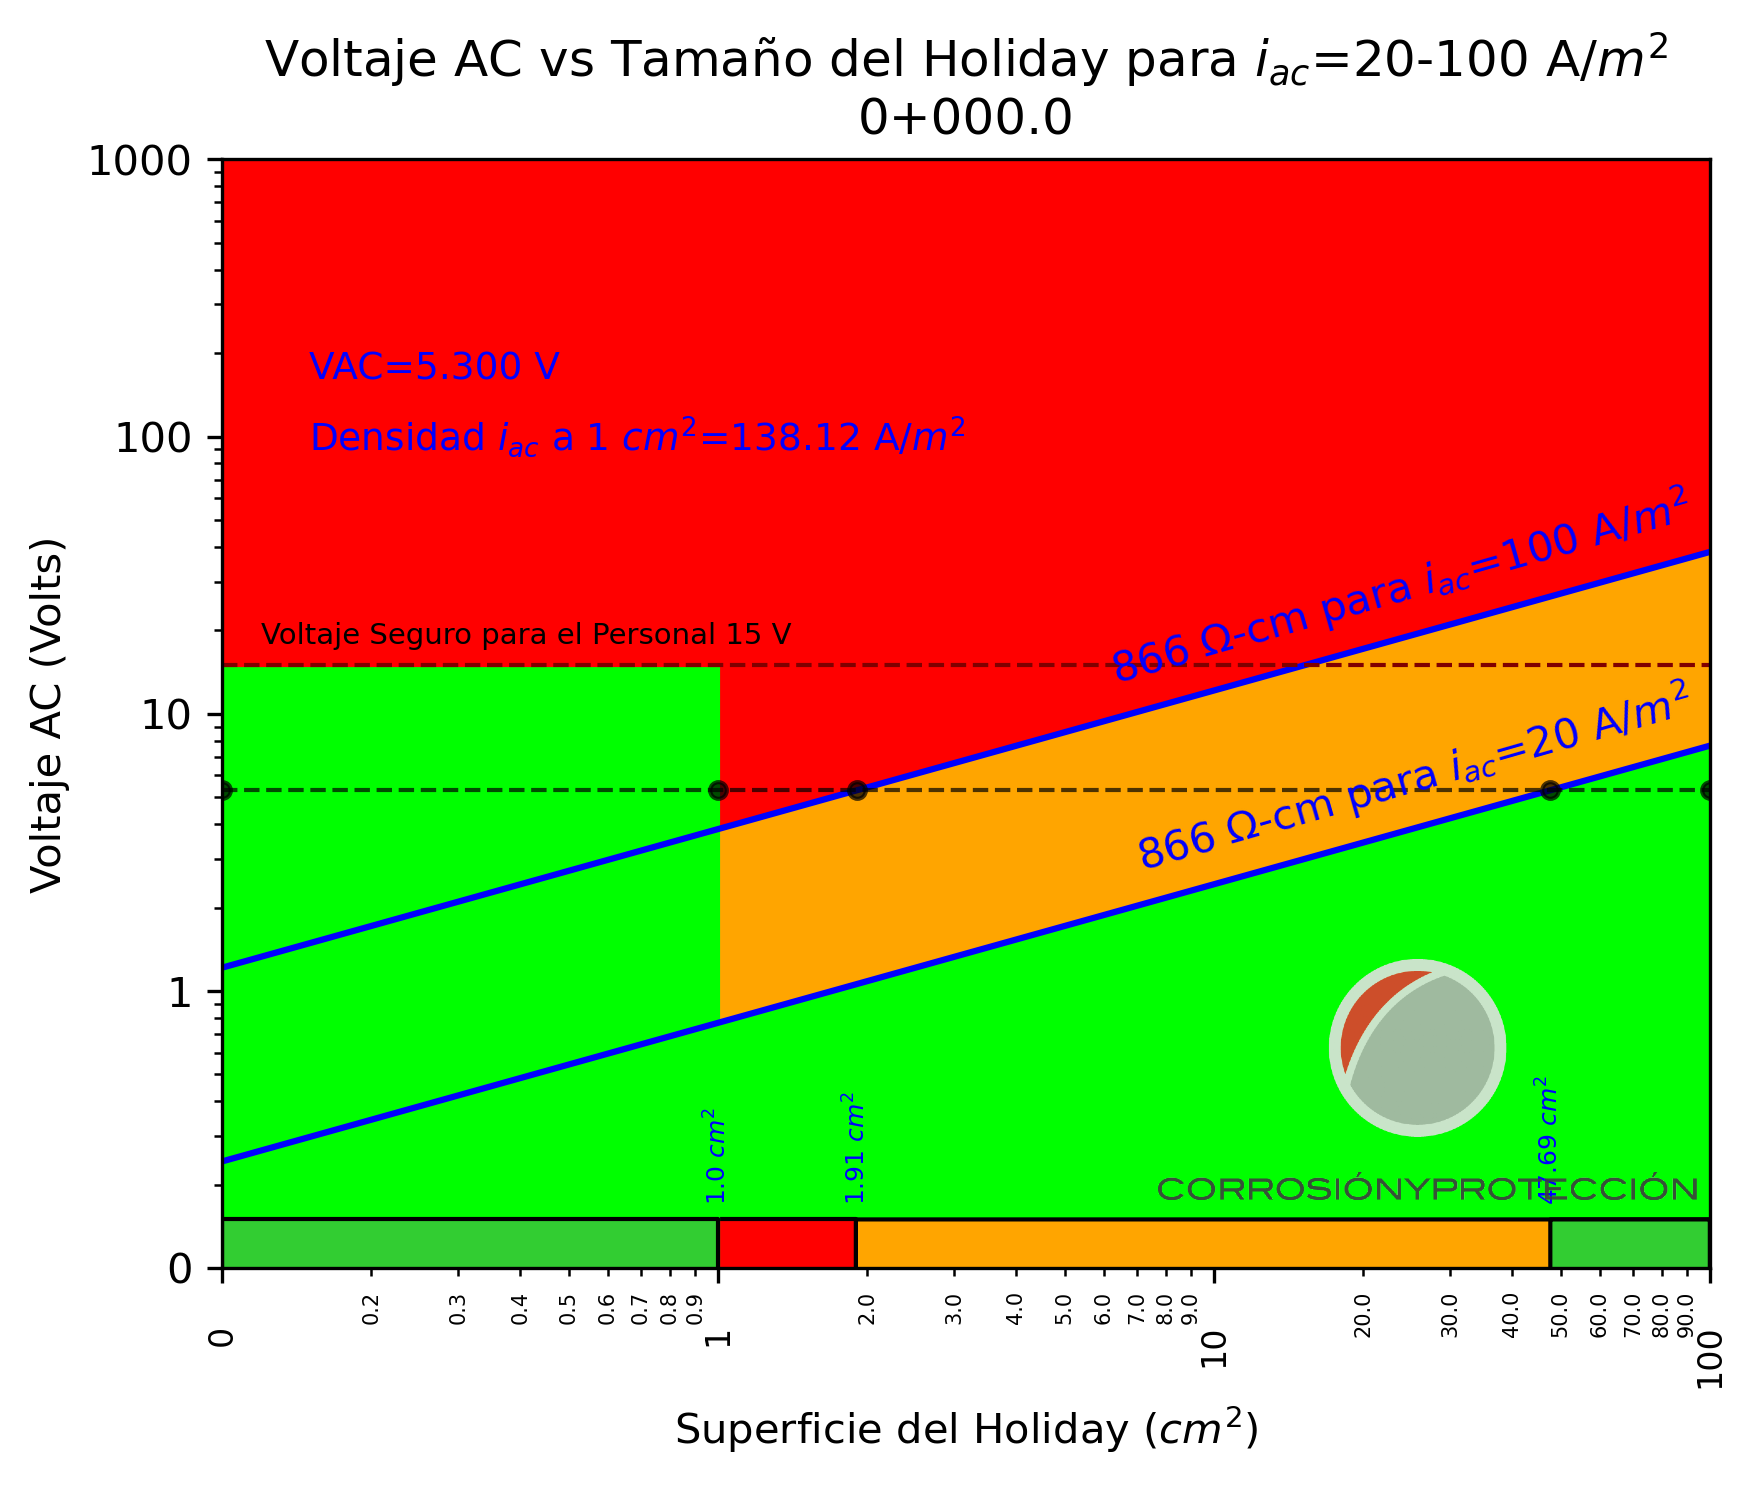
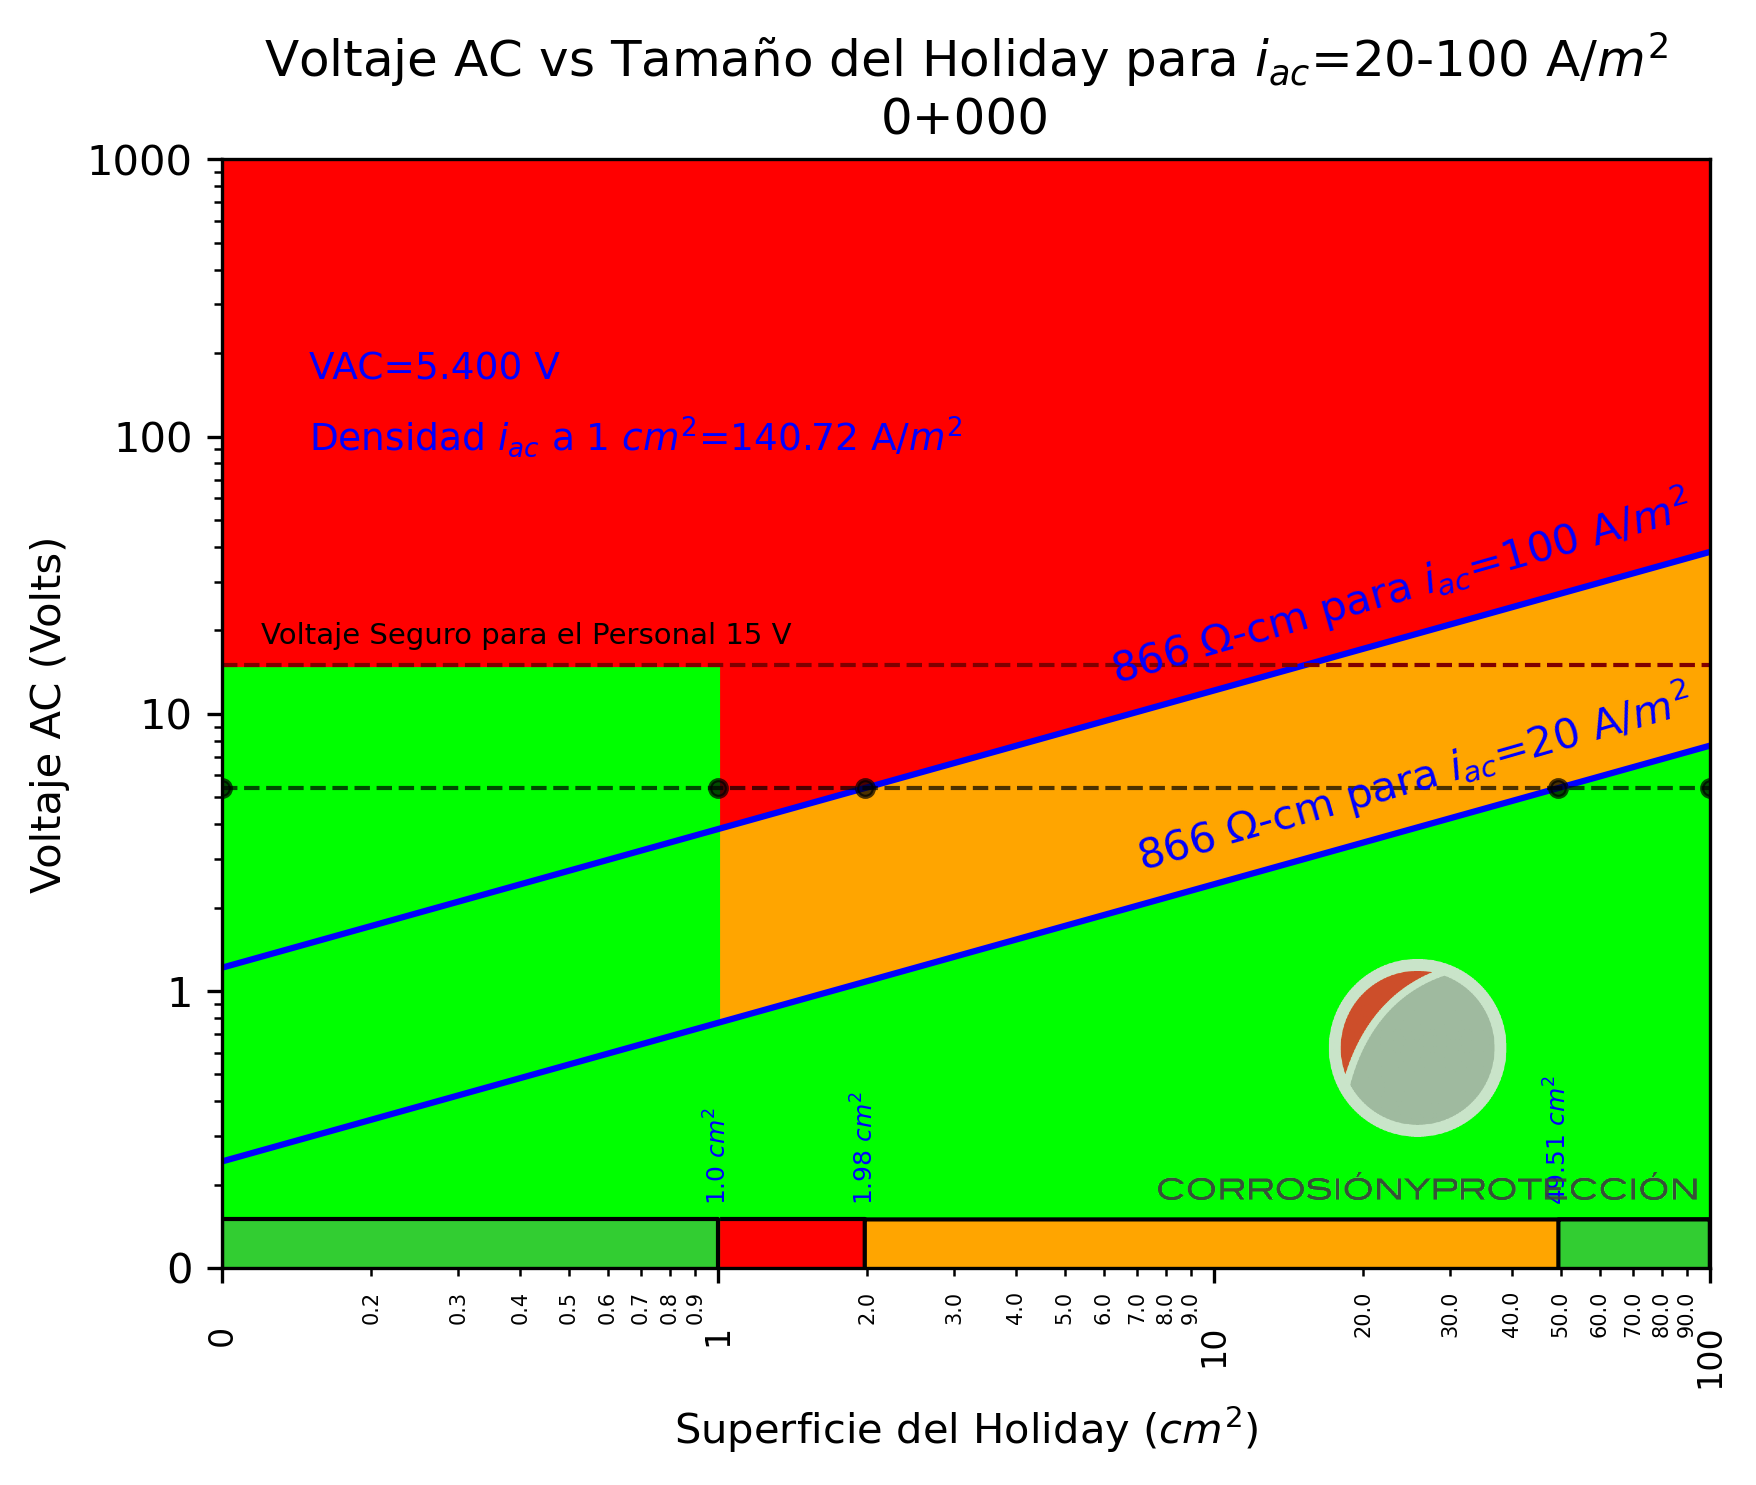
actualizar archivos binarios y la imagen de corrosión AC

diff --git a/pages/AC_Corrosion_Chart.py b/pages/AC_Corrosion_Chart.py
@@ -3,7 +3,6 @@ import matplotlib.pyplot as plt
 import numpy as np
 import matplotlib.ticker as mtick
 import math
-from modulos import num2station
 import matplotlib.image as mpimg
 from matplotlib.offsetbox import OffsetImage, AnnotationBbox
 from funciones import Graficos_Densidad_AC_custom
